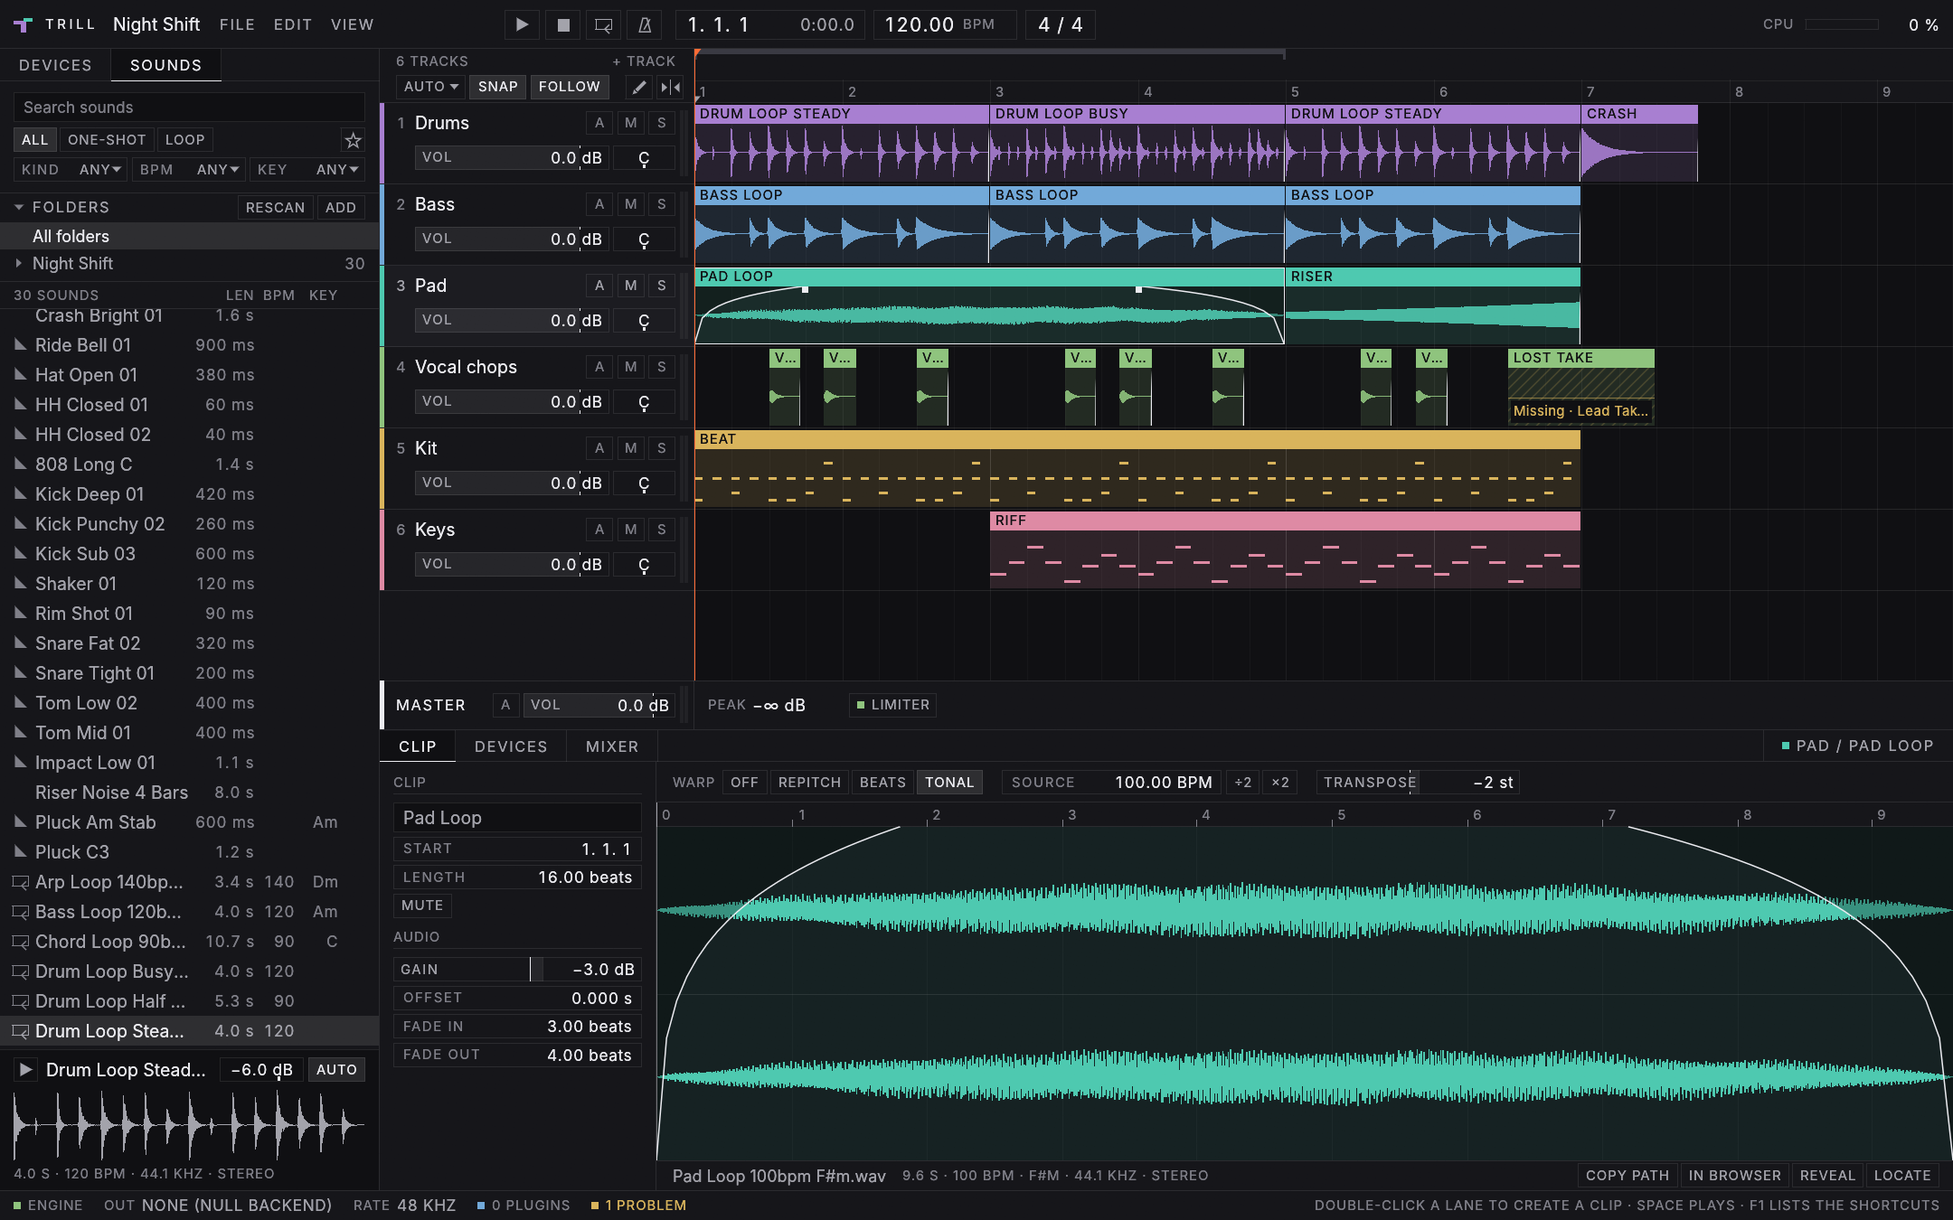
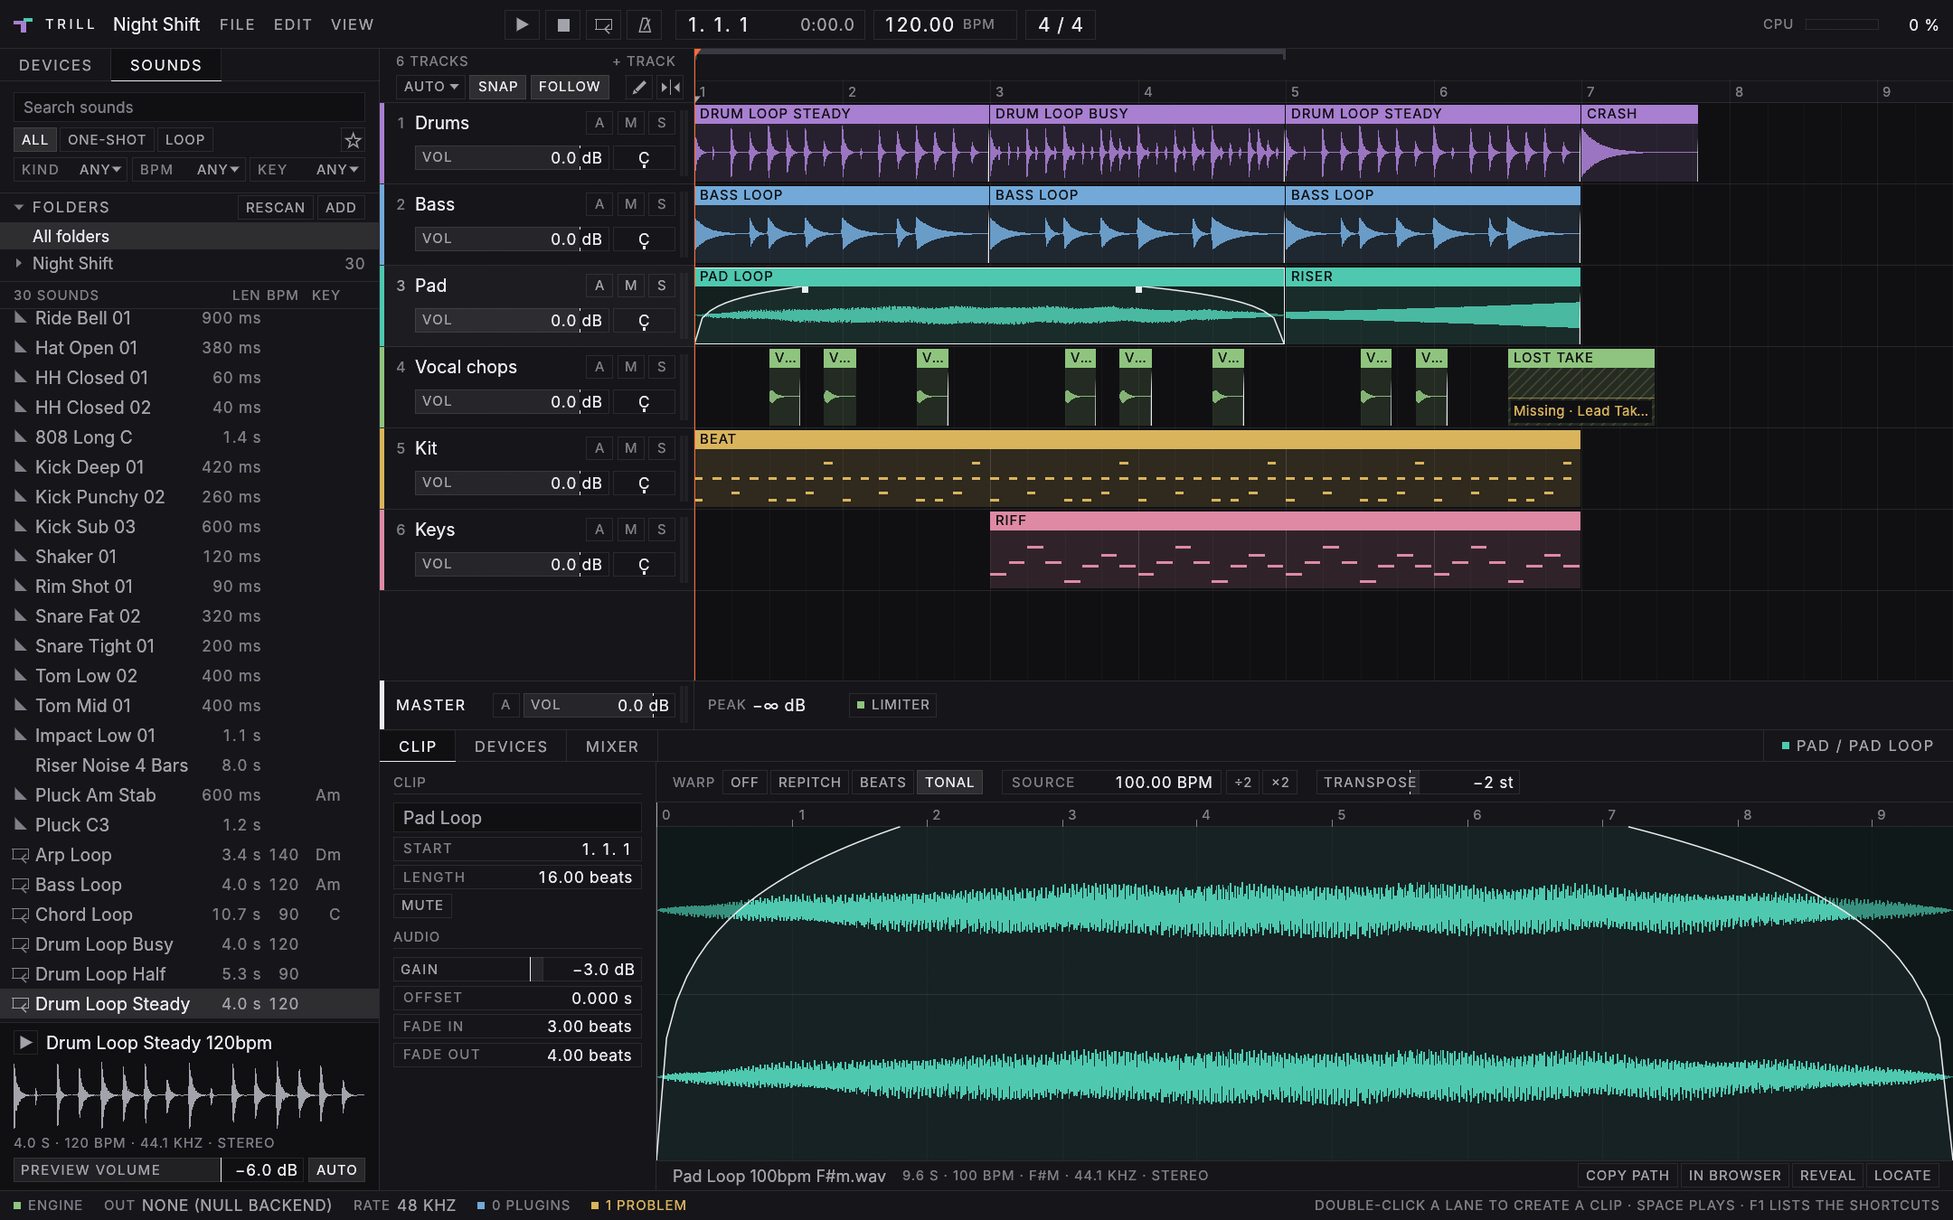
List sounds by what their columns do not say, and finish the sound browser
A row of the sound list now leaves the tempo and the key off the end of a
name when its own columns state them, so 'Bass Loop 120bpm Am' is listed as
'Bass Loop' beside 120 and Am; the whole name is in the strip below and
under the pointer.

Native dialogs (add a folder, load a sample, locate a clip's file) run on a
thread of their own that carries only the question and its answer, so
closing the window never waits for one and the runtime never ends on one.
The folder tree reads the index the list was made from rather than taking a
second handle on the library's.

A screenshot also waits for warped clips to finish being prepared, which
made the status bar of one picture differ from run to run. The README
describes the Sounds tab, and the screenshots are regenerated.

Changed region(s): [[0.0, 0.2489, 0.2171, 0.9644], [0.1241, 0.2178, 0.1551, 0.2489]]

diff --git a/crates/trill-app/src/ui/sounds/mod.rs b/crates/trill-app/src/ui/sounds/mod.rs
@@ -93,13 +93,16 @@ pub enum Done {
     },
     /// A file was taken off a sampler or a pad.
     Cleared(Result<(), String>),
-    /// A folder was chosen in a dialog (or the dialog dismissed) and has
-    /// been added to the library.
-    FolderAdded(Option<Result<PathBuf, String>>),
-    /// A file was chosen in a dialog to load into a sample slot.
+    /// A dialog was answered: with a folder for the library, with a file
+    /// for a sampler or a pad, or with where a clip's file is now. `None`
+    /// when it was dismissed.
+    FolderPicked(Option<PathBuf>),
     FilePicked(Option<(PathBuf, DropTarget)>),
-    /// A missing clip's file was pointed out again.
-    Relinked(Option<Result<String, String>>),
+    RelinkPicked(Option<(ClipId, PathBuf)>),
+    /// A folder was added to the library, or why it was not.
+    FolderAdded(Result<PathBuf, String>),
+    /// A clip was pointed at another file: the file's name, or why not.
+    Relinked(Result<String, String>),
     /// Something the user need not hear about unless it failed.
     Quiet(Result<(), String>),
 }
@@ -316,28 +319,28 @@ impl Sounds {
                         reports.push(Report::Error(reason));
                     }
                 }
-                Done::FolderAdded(answer) => {
+                Done::FolderPicked(answer) => {
                     self.dialog_open = false;
-                    match answer {
-                        Some(Ok(folder)) => reports.push(Report::FolderAdded(folder)),
-                        Some(Err(reason)) => reports.push(Report::Info(reason)),
-                        None => {}
+                    if let Some(folder) = answer {
+                        self.add_folder(folder);
                     }
                 }
+                Done::FolderAdded(Ok(folder)) => reports.push(Report::FolderAdded(folder)),
+                Done::FolderAdded(Err(reason)) => reports.push(Report::Info(reason)),
                 Done::FilePicked(answer) => {
                     self.dialog_open = false;
                     if let Some((path, target)) = answer {
                         reports.push(Report::Picked(path, target));
                     }
                 }
-                Done::Relinked(answer) => {
+                Done::RelinkPicked(answer) => {
                     self.dialog_open = false;
-                    match answer {
-                        Some(Ok(name)) => reports.push(Report::Info(format!("The clip now plays {name}"))),
-                        Some(Err(reason)) => reports.push(Report::Error(reason)),
-                        None => {}
+                    if let Some((clip, path)) = answer {
+                        self.relink(clip, path);
                     }
                 }
+                Done::Relinked(Ok(name)) => reports.push(Report::Info(format!("The clip now plays {name}"))),
+                Done::Relinked(Err(reason)) => reports.push(Report::Error(reason)),
             }
         }
         for path in self.waves.take_requests() {
@@ -456,23 +459,19 @@ impl Sounds {
         if std::mem::replace(&mut self.dialog_open, true) {
             return;
         }
-        let runtime = self.runtime.clone();
-        self.work.spawn(Priority::Urgent, move || {
+        self.work.ask(move || {
             let mut dialog = rfd::AsyncFileDialog::new().set_title("Add a folder of sounds");
             if let Some(folder) = start_in.filter(|folder| folder.is_dir()) {
                 dialog = dialog.set_directory(folder);
             }
-            let Some(folder) = pollster::block_on(dialog.pick_folder()) else { return Done::FolderAdded(None) };
-            let folder = folder.path().to_path_buf();
-            Done::FolderAdded(Some(add_folder(&runtime, &folder)))
+            Done::FolderPicked(pollster::block_on(dialog.pick_folder()).map(|folder| folder.path().to_path_buf()))
         });
     }
 
-    /// Adds `folder` to the library without asking.
-    #[cfg(test)]
+    /// Adds `folder` to the library, which starts scanning it.
     pub fn add_folder(&mut self, folder: PathBuf) {
         let runtime = self.runtime.clone();
-        self.work.spawn(Priority::Urgent, move || Done::FolderAdded(Some(add_folder(&runtime, &folder))));
+        self.work.spawn(Priority::Urgent, move || Done::FolderAdded(add_folder(&runtime, &folder)));
     }
 
     pub fn remove_folder(&mut self, folder: PathBuf) {
@@ -488,11 +487,9 @@ impl Sounds {
         if std::mem::replace(&mut self.dialog_open, true) {
             return;
         }
-        self.work.spawn(Priority::Urgent, move || {
-            let Some(file) = pollster::block_on(audio_dialog("Load a sample", start_in).pick_file()) else {
-                return Done::FilePicked(None);
-            };
-            Done::FilePicked(Some((file.path().to_path_buf(), target)))
+        self.work.ask(move || {
+            let file = pollster::block_on(audio_dialog("Load a sample", start_in).pick_file());
+            Done::FilePicked(file.map(|file| (file.path().to_path_buf(), target)))
         });
     }
 
@@ -501,21 +498,16 @@ impl Sounds {
         if std::mem::replace(&mut self.dialog_open, true) {
             return;
         }
-        let runtime = self.runtime.clone();
-        self.work.spawn(Priority::Urgent, move || {
-            let Some(file) = pollster::block_on(audio_dialog("Locate the audio file", start_in).pick_file()) else {
-                return Done::Relinked(None);
-            };
-            Done::Relinked(Some(relink(&runtime, clip, file.path())))
+        self.work.ask(move || {
+            let file = pollster::block_on(audio_dialog("Locate the audio file", start_in).pick_file());
+            Done::RelinkPicked(file.map(|file| (clip, file.path().to_path_buf())))
         });
     }
 
-    /// Points `clip` at the file at `path`, as the dialog does once it has
-    /// been answered.
-    #[cfg(test)]
+    /// Points `clip` at the file at `path`: what the dialog's answer does.
     pub fn relink(&mut self, clip: ClipId, path: PathBuf) {
         let runtime = self.runtime.clone();
-        self.work.spawn(Priority::Urgent, move || Done::Relinked(Some(relink(&runtime, clip, &path))));
+        self.work.spawn(Priority::Urgent, move || Done::Relinked(relink(&runtime, clip, &path)));
     }
 
     /// Runs `job` on a worker; a failure is shown to the user.

diff --git a/crates/trill-app/src/ui/browser/sounds.rs b/crates/trill-app/src/ui/browser/sounds.rs
@@ -118,6 +118,36 @@ pub(in crate::ui) fn format_count(count: usize) -> String {
     out
 }
 
+/// A sound's name as its row shows it: without the tempo and the key at
+/// its end, which the row's own columns state. `Bass Loop 120bpm Am` is
+/// listed as `Bass Loop`, beside 120 and Am, so that the room the name has
+/// goes to what the columns do not say. Only what the library read as this
+/// sound's tempo or key is left off, only from the end, and never the whole
+/// name. The full name is in the strip below the list and under the pointer.
+pub(in crate::ui) fn listed_name(name: &str, tempo: Option<f64>, key: Option<MusicalKey>) -> &str {
+    // A dot may be the point of a tempo ("87.5bpm"), so it does not part
+    // one word of a name from the next.
+    let is_separator = |c: char| c.is_whitespace() || "_-()[]".contains(c);
+    let says_tempo = |token: &str| {
+        let digits =
+            token.strip_suffix("bpm").or(token.strip_suffix("BPM")).or(token.strip_suffix("Bpm")).unwrap_or(token);
+        tempo.is_some_and(|tempo| digits.parse::<f64>().is_ok_and(|said| (said - tempo).abs() < 0.01))
+    };
+    let mut shown = name.trim_end_matches(is_separator);
+    loop {
+        let start = shown.rfind(is_separator).map_or(0, |at| at + shown[at..].chars().next().map_or(1, char::len_utf8));
+        let token = &shown[start..];
+        let before = shown[..start].trim_end_matches(is_separator);
+        // "120 BPM" is the unit and, before it, the number.
+        let unit = token.eq_ignore_ascii_case("bpm") && tempo.is_some();
+        let states = says_tempo(token) || unit || key.is_some_and(|key| MusicalKey::parse(token) == Some(key));
+        if !states || before.is_empty() {
+            return shown;
+        }
+        shown = before;
+    }
+}
+
 /// A tag's label with a capital, as a menu shows it: `"Kick"`, `"808"`.
 fn tag_title(tag: Tag) -> String {
     let label = tag.label();
@@ -521,7 +551,14 @@ fn folders(ui: &mut Ui, cx: &mut Cx, area: Rect, roots: &[PathBuf]) -> f32 {
         return header.bottom();
     }
 
-    let index = cx.sounds.runtime.library.index();
+    // The index the list on show was made from, when there is one: a
+    // second handle on the library's own could be the last one left to an
+    // index that a scan has just replaced, and freeing a hundred thousand
+    // entries is not for this thread.
+    let index = match &cx.sounds.search.found {
+        Some(found) => found.results.index().clone(),
+        None => cx.sounds.runtime.library.index(),
+    };
     let nodes = tree(&index, roots, &cx.state.browser.sounds);
     // "All folders" leads the list.
     let wanted = (nodes.len() + 1) as f32 * TREE_ROW + 4.0;
@@ -839,7 +876,8 @@ fn sound_row(ui: &mut Ui, cx: &mut Cx, id: egui::Id, rect: Rect, sound: &SoundRo
         // Packs name their files alike at the start; what tells two rows
         // apart is further on, so a name too long loses its middle.
         let ink = if lit { theme.ink } else { theme.ink_dim };
-        text::paint_name(painter, name, Align2::LEFT_CENTER, theme.text.body, &sound.name, ink);
+        let shown = listed_name(&sound.name, sound.tempo, sound.key);
+        text::paint_name(painter, name, Align2::LEFT_CENTER, theme.text.body, shown, ink);
     }
 
     if response.hovered() {
@@ -1333,6 +1371,30 @@ mod tests {
         assert_eq!(format_count(1_234_567), "1,234,567");
         assert_eq!(tag_title(Tag::Kick), "Kick");
         assert_eq!(tag_title(Tag::Sub808), "808");
+    }
+
+    #[test]
+    fn rows_leave_off_the_tempo_and_key_their_columns_state() {
+        let key = |name: &str| MusicalKey::parse(name);
+        assert_eq!(listed_name("Bass Loop 120bpm Am", Some(120.0), key("Am")), "Bass Loop");
+        assert_eq!(listed_name("PACK_drum_beat_100_swag_Ebm", Some(100.0), key("Ebm")), "PACK_drum_beat_100_swag");
+        assert_eq!(listed_name("PACK_synth_loop_dreamy_94_F", Some(94.0), key("F")), "PACK_synth_loop_dreamy");
+        assert_eq!(listed_name("Keys Loop 140 BPM C#m", Some(140.0), key("C#m")), "Keys Loop");
+        assert_eq!(listed_name("Drum Loop Half 87.5bpm", Some(87.5), None), "Drum Loop Half");
+        assert_eq!(listed_name("Pad_Gbm_", None, key("F#m")), "Pad", "the same key, respelled");
+        // What the library did not read as this sound's tempo or key stays.
+        assert_eq!(listed_name("Kick 01", None, None), "Kick 01");
+        assert_eq!(listed_name("Snare 120", None, None), "Snare 120");
+        assert_eq!(listed_name("Tom 140", Some(120.0), None), "Tom 140", "a number that is not the tempo");
+        assert_eq!(listed_name("Stab Am", None, key("C")), "Stab Am", "a key that is not the one read");
+        assert_eq!(listed_name("808 Long C", None, None), "808 Long C");
+        // Never the whole name, and never from the middle.
+        assert_eq!(listed_name("120bpm", Some(120.0), None), "120bpm");
+        assert_eq!(listed_name("Am", None, key("Am")), "Am");
+        assert_eq!(listed_name("140 Am", Some(140.0), key("Am")), "140");
+        assert_eq!(listed_name("Am Chords 120bpm take 2", Some(120.0), key("Am")), "Am Chords 120bpm take 2");
+        assert_eq!(listed_name("", Some(120.0), None), "");
+        assert_eq!(listed_name("\u{00FC}ber Fl\u{00E4}che 90bpm", Some(90.0), None), "\u{00FC}ber Fl\u{00E4}che");
     }
 
     #[test]

diff --git a/crates/trill-app/src/ui/work.rs b/crates/trill-app/src/ui/work.rs
@@ -11,6 +11,11 @@
 //! user just did (a click that previews, a drop, a keystroke in the search
 //! field) and must not queue behind a screenful of waveforms; one worker
 //! takes nothing else. *Bulk* ones (waveforms) are done in the order asked.
+//!
+//! A native dialog is neither: it may stay open for minutes, and nothing
+//! should wait for it, least of all the window when it closes. Dialogs get
+//! a thread of their own ([`Work::ask`]) that knows nothing but the
+//! question and where to send the answer.
 
 use super::sounds::Done;
 use eframe::egui;
@@ -57,6 +62,9 @@ struct Shared {
 pub struct Work {
     shared: Arc<Shared>,
     finished: Receiver<Done>,
+    /// For the threads that ask the user something.
+    sender: Sender<Done>,
+    ctx: egui::Context,
     threads: Vec<JoinHandle<()>>,
 }
 
@@ -76,7 +84,24 @@ impl Work {
                     .ok()
             })
             .collect();
-        Self { shared, finished, threads }
+        Self { shared, finished, sender, ctx: ctx.clone(), threads }
+    }
+
+    /// Runs `question` (a native dialog) on a thread of its own and takes
+    /// its answer like any finished job. The thread is not waited for when
+    /// the window closes, so `question` must hold nothing that has to end
+    /// in an orderly way: it is given the answer to return, not the
+    /// runtime to act on it.
+    pub fn ask(&self, question: impl FnOnce() -> Done + Send + 'static) {
+        let (sender, ctx) = (self.sender.clone(), self.ctx.clone());
+        let asked = std::thread::Builder::new().name("sound-dialog".into()).spawn(move || {
+            // The receiver is gone only when the window has closed.
+            let _ = sender.send(question());
+            ctx.request_repaint();
+        });
+        if let Err(error) = asked {
+            log::warn!("a dialog could not be opened: {error}");
+        }
     }
 
     /// Queues `job`. It runs on a worker thread, some time after this

diff --git a/crates/trill-app/src/ui/app.rs b/crates/trill-app/src/ui/app.rs
@@ -427,9 +427,11 @@ impl TrillApp {
         if let Some(path) = self.options.screenshot.clone() {
             // Playing takes a moment to show on the meters.
             let settle = if self.options.autoplay { Duration::from_millis(1800) } else { Duration::from_millis(400) };
-            // What is still on its way (a scan, a waveform) should be in
-            // the picture: wait for the workers, then a few frames more.
-            if self.sounds.is_waiting() && elapsed < SCREENSHOT_PATIENCE {
+            // What is still on its way (a scan, a waveform, a clip being
+            // stretched) should be in the picture as it will be once it has
+            // arrived: wait for it, then a few frames more.
+            let arriving = self.sounds.is_waiting() || self.live.preparing > 0;
+            if arriving && elapsed < SCREENSHOT_PATIENCE {
                 self.busy_at_frame = self.frames;
             }
             let settled = self.frames >= self.busy_at_frame + SCREENSHOT_SETTLE_FRAMES;

diff --git a/crates/trill-noir/src/text.rs b/crates/trill-noir/src/text.rs
@@ -206,10 +206,9 @@ mod tests {
 
             // With no room at all, the ellipsis alone.
             assert_eq!(elide_middle(painter, style, name, 0.0), ELLIPSIS.to_string());
-            assert_eq!(
-                elide_middle(painter, style, "\u{00FC}ber_n\u{00EF}ce_name_here", 40.0).chars().count() > 1,
-                true
-            );
+            // Letters of more than one byte are cut between, never through.
+            let accented = elide_middle(painter, style, "\u{00FC}ber_n\u{00EF}ce_name_here", 40.0);
+            assert!(accented.contains(ELLIPSIS) && accented.chars().count() > 1, "{accented}");
         });
     }
 

diff --git a/crates/trill-app/src/ui/sample_panels.rs b/crates/trill-app/src/ui/sample_panels.rs
@@ -318,7 +318,7 @@ pub(super) fn drum_rack(ui: &mut Ui, cx: &mut Cx, body: &Body, area: Rect, panel
     let loaded = cx.snap.samples.get(&device).map_or(0, Vec::len);
     let summary = Rect::from_min_size(pos2(left, top + 4.0), vec2(RACK_COLUMN, 16.0));
     let words = match loaded {
-        0 => "Drop sounds on the pads".to_owned(),
+        0 => "No pads loaded yet".to_owned(),
         count => format!("{count} of {PAD_COUNT} pads loaded"),
     };
     text::paint(ui.painter(), summary, Align2::LEFT_CENTER, theme.text.micro, &words, theme.ink_faint);

diff --git a/crates/trill-app/src/ui/audio_clip.rs b/crates/trill-app/src/ui/audio_clip.rs
@@ -507,6 +507,9 @@ fn waveform(
     color: Color32,
 ) {
     let theme = cx.theme;
+    if view.width() < 8.0 || view.height() < RULER + 8.0 {
+        return;
+    }
     let tempo = cx.snap.project.tempo;
     let file_seconds = wave.seconds();
     let (clip_start, clip_end) = played(clip, audio, tempo);

diff --git a/crates/trill-app/src/ui/state.rs b/crates/trill-app/src/ui/state.rs
@@ -474,7 +474,7 @@ pub struct BrowserState {
 
 impl BrowserState {
     pub const DEFAULT_WIDTH: f32 = 280.0;
-    pub const MIN_WIDTH: f32 = 220.0;
+    pub const MIN_WIDTH: f32 = 250.0;
     pub const MAX_WIDTH: f32 = 520.0;
 
     pub fn new() -> Self {

diff --git a/README.md b/README.md
@@ -79,6 +79,19 @@ fades, a clipboard, time selection), markers, group and return tracks, and autom
 hand or drawn in steps; a piano roll; device panels generated from each device's parameters; a mixer; MIDI import
 and export; project files; WAV export. `F1` lists the keyboard shortcuts.
 
+The browser's **Sounds** tab is the sample library: add folders, search as you type, filter by one-shot or loop,
+kind, tempo and key, mark favorites, and hear a sound as you select it. Drag a sound onto a track for an audio
+clip where it lands (loops whose name states a tempo follow the song's), below the tracks for a new track, onto a
+sampler or onto a drum rack pad; files dragged in from the file manager land the same way. Audio clips show their
+waveform, and the Clip tab shows an audio clip's file with its gain, offset, fades, warp mode, source tempo and
+transposition. The sampler shows its sample and the drum rack its sixteen pads.
+
+![The sound browser, waveforms on audio clips and an audio clip in the Clip tab](crates/trill-app/screenshots/sounds-browser.png)
+
+No samples at hand? `cargo run -p trill-app --example sound_fixtures -- some/folder` synthesizes a small pack and a
+song made from it (it is what the screenshots are taken from); add `some/folder/Night Shift` in the browser, or
+start with `--library "some/folder/Night Shift" --browse sounds some/folder/night-shift.trill`.
+
 ## MCP tools
 
 | Area | Tools |
@@ -132,8 +145,7 @@ Working: everything listed above, with tests.
 
 Not yet: plugin editor windows, running plugins out of process (only scanning is
 isolated today, so a plugin that crashes while playing still takes the app with it), session (clip-launching)
-view, audio recording, a sound browser and warp controls in the window (the library, sample assignment and
-warping are reachable over MCP only so far), warp markers, MIDI input devices, plugin delay compensation,
+view, audio recording, warp markers, MIDI input devices, plugin delay compensation,
 multi-core rendering. Only Windows has been run so far.
 
 ## Licence
